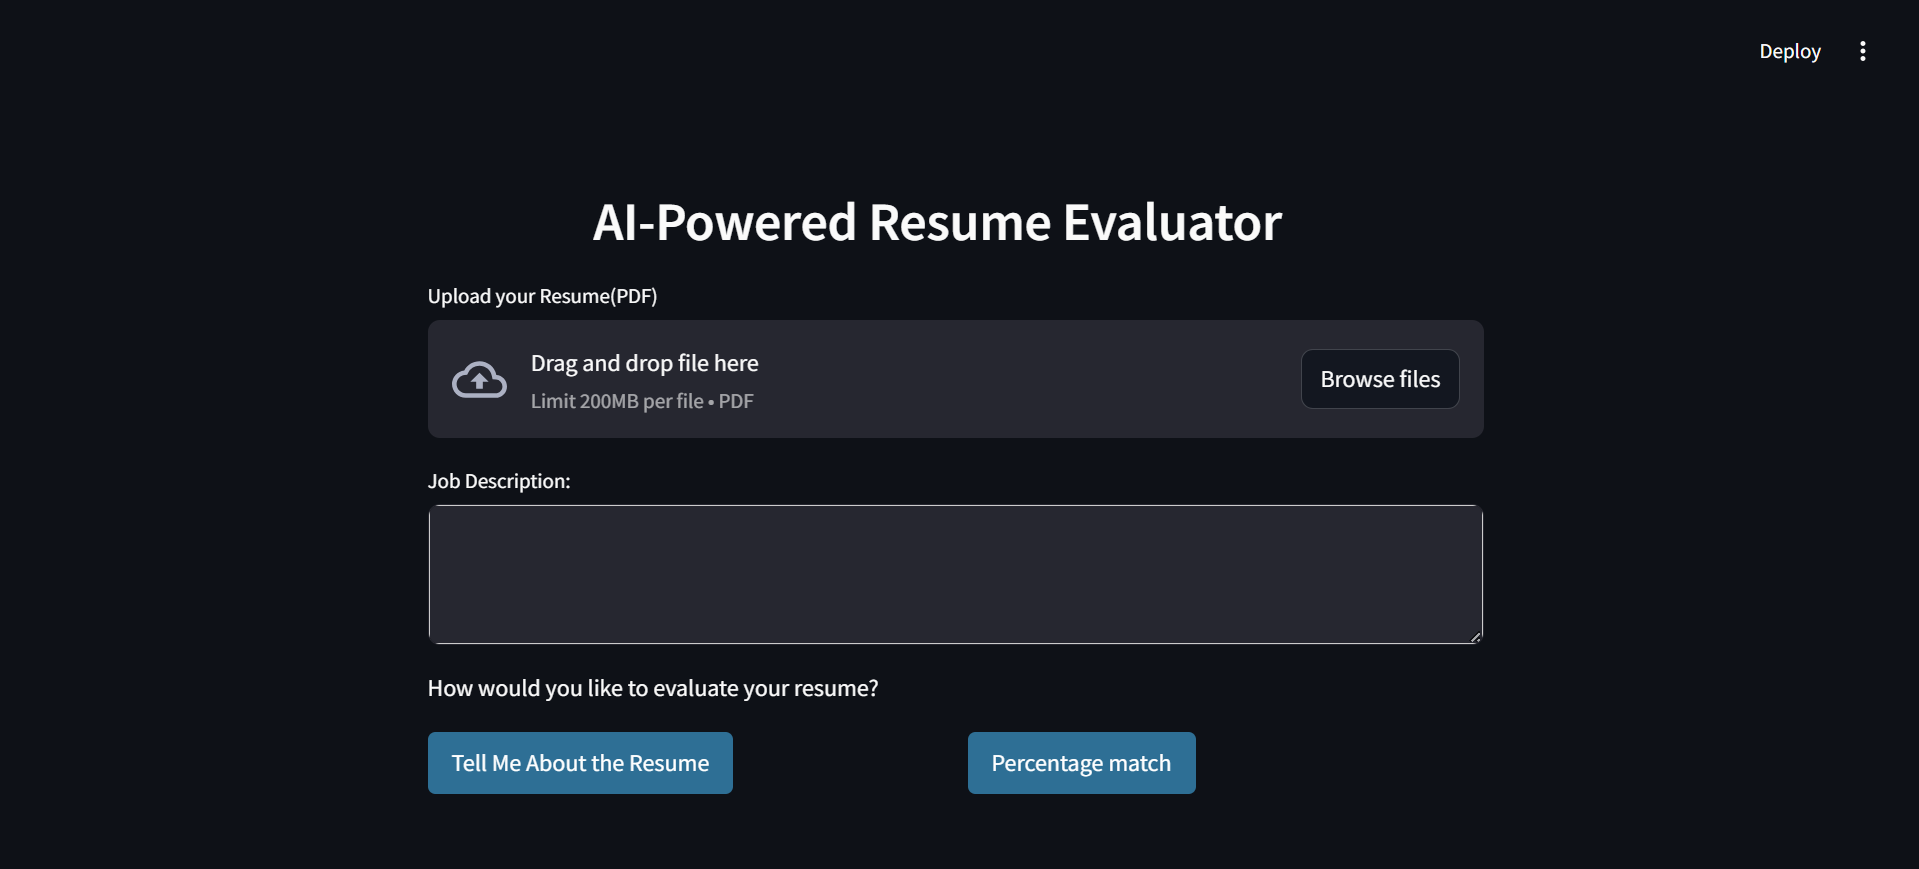
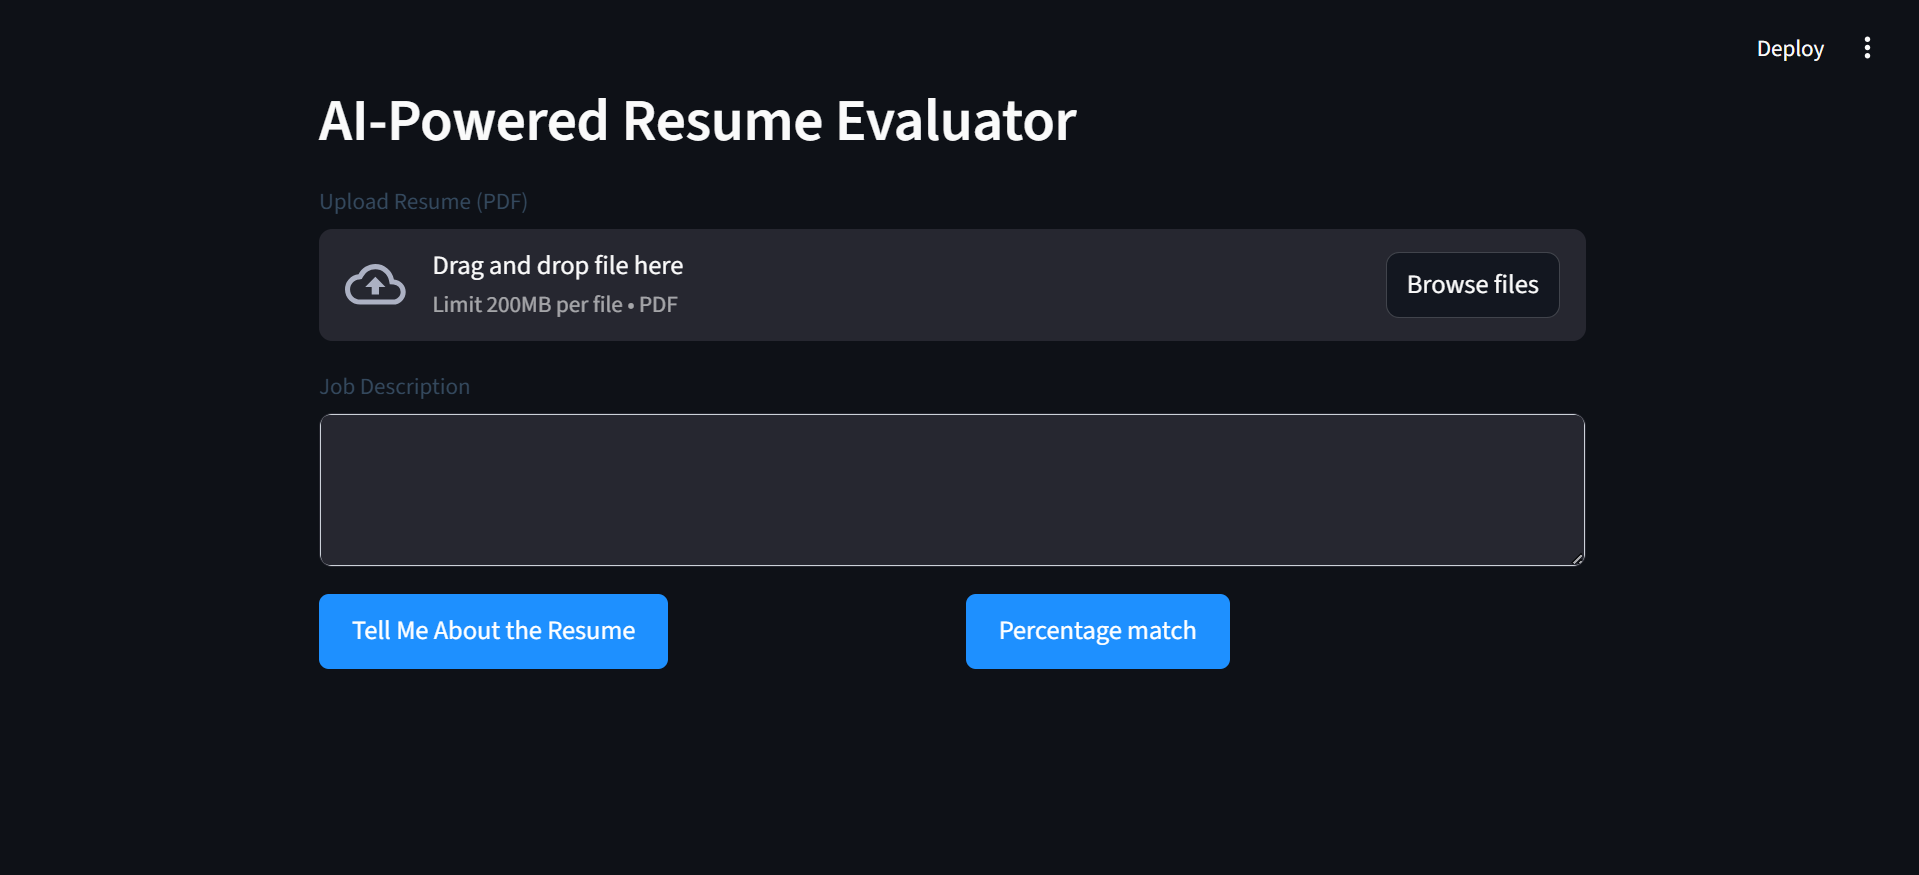
new commit
A

diff --git a/app.py b/app.py
@@ -1,12 +1,27 @@
+<<<<<<< HEAD
 from dotenv import load_dotenv
 load_dotenv()
+=======
+from dotenv import load_dotenv; load_dotenv()
+import os, json, time
+import streamlit as st
+import google.generativeai as genai
+
+MODEL_ID = "gemini-2.5-flash"
+>>>>>>> 85f87bd (new commit)
 genai.configure(api_key=os.getenv("GOOGLE_API_KEY"))
 
-def get_gemini_response(input,pdf_cotent,prompt):
-    model=genai.GenerativeModel('gemini-1.5-flash')
-    response=model.generate_content([input,pdf_content[0],prompt])
-    return response.text
+ATS_SCHEMA_EXAMPLE = {
+  "type": "object",
+  "properties": {
+    "match_percent": {"type": "number", "minimum": 0, "maximum": 100},
+    "summary": {"type": "string"}
+  },
+  "required": ["match_percent", "summary"],
+  "additionalProperties": False
+}
 
+<<<<<<< HEAD
 def input_pdf_setup(uploaded_file):
     if uploaded_file is not None:
         pdf_parts = [
@@ -18,54 +33,79 @@ def input_pdf_setup(uploaded_file):
         return pdf_parts
     else:
         raise FileNotFoundError("No file uploaded")
+=======
+HR_PROMPT = (
+  "Role: You are an experienced technical recruiter.\n"
+  "Task: Evaluate the resume against the job description.\n"
+  "Output: strengths, gaps, and a fit verdict in <=120 words.\n"
+  "Style: concise, specific, professional."
+)
 
-## Streamlit App
+ATS_PROMPT = (
+  "Role: You are an expert ATS and technical recruiter.\n"
+  "Task: Read the Job Description and the Resume. Produce four sections with the exact keys below.\n"
+  "Style: Be concise, specific, and evidence-aware. Do not repeat sentences across sections.\n"
+  "Output: STRICT JSON ONLY with keys and types:\n"
+  "{\n"
+  '  "match_percent": 0-100 number,\n'
+  '  "about_job": "string",\n'
+  '  "your_resume": "string",\n'
+  '  "summary": "string"\n'
+  "}\n"
+  "Definitions:\n"
+  "- match_percent: ATS-style score 0–100, strict.\n"
+  "- about_job: Explain what the job is, what they seek, and critical requirements from the JD.\n"
+  "- your_resume: Analyze work experience, internships, and projects in detail. \
+    Explain which experiences directly support this job’s requirements and which skills or experiences are missing. \
+    Focus heavily on practical experience and achievements.\n"
+  "- summary: Professional advice on changes to improve fit; do not copy from other sections.\n"
+)
 
+
+def upload_pdf_native(uploaded_file):
+    """Upload PDF to Gemini API (not stored locally)."""
+    return genai.upload_file(
+        uploaded_file,
+        mime_type="application/pdf",
+        display_name=uploaded_file.name
+    )
+>>>>>>> 85f87bd (new commit)
+
+def call_gemini(content_parts):
+    """One retry wrapper."""
+    model = genai.GenerativeModel(MODEL_ID)
+    for i in range(2):
+        try:
+            return model.generate_content(content_parts, request_options={"timeout": 60})
+        except Exception:
+            if i == 1:
+                raise
+            time.sleep(1.5)
+
+def parse_json(text: str):
+    """Try to parse JSON, stripping fences if present."""
+    try:
+        return True, json.loads(text)
+    except Exception:
+        cleaned = text.replace("```json", "").replace("```", "").strip()
+        try:
+            return True, json.loads(cleaned)
+        except Exception:
+            return False, text
+        
+# ---------- UI
 st.set_page_config(page_title="AI-Powered Resume Evaluator")
-
-# Overwrite Style
-st.markdown("""
-    <style>
-        .main {
-            background-color: #f5f7fa;
-        }
-        h1, h2, h3 {
-            color: #2e6f95;
-            text-align: center;
-        }
-        .stTextArea textarea {
-            border: 1px solid #ccc;
-        }
-        .stButton > button {
-        background-color: #2e6f95;
-        color: white;
-        border: none;
-        border-radius: 5px;
-        padding: 0.5em 1em;
-        transition: background-color 0.3s ease;
-        }
-        .stButton > button:hover {
-            background-color: #082534;
-            color: white;
-            border: none;
-        }
-        .stButton > button:active {
-            background-color: #1c4d66;
-            color: white !important;
-            border: none;
-        }
-    </style>
-""", unsafe_allow_html=True)
-
 st.header("AI-Powered Resume Evaluator")
-uploaded_file=st.file_uploader("Upload your Resume(PDF)",type=["pdf"])
-input_text=st.text_area("Job Description: ",key="input")
 
-if uploaded_file is not None:
-    st.write("PDF Uploaded Successfully")
+uploaded = st.file_uploader("Upload Resume (PDF)", type=["pdf"])
+jd_text = st.text_area("Job Description")
+c1, c2 = st.columns(2)
+hr_btn = c1.button("Tell Me About the Resume")
+ats_btn = c2.button("Percentage match")
 
-st.markdown("<p style='font-size: 16px;'>How would you like to evaluate your resume?</p>", unsafe_allow_html=True)
+if uploaded: st.caption("PDF uploaded successfully.")
 
+<<<<<<< HEAD
 col1, col2 = st.columns(2)
 with col1:
     submit1 = st.button("Tell Me About the Resume")
@@ -79,15 +119,72 @@ if submit1:
         response=get_gemini_response(input_prompt1,pdf_content,input_text)
         st.subheader("The Repsonse is")
         st.write(response)
+=======
+if hr_btn or ats_btn:
+    if not uploaded or not jd_text.strip():
+        st.error("Upload a PDF and paste a job description.")
+>>>>>>> 85f87bd (new commit)
     else:
-        st.write("Please uplaod the Resume")
+        # Upload PDF to Gemini
+        file_handle = upload_pdf_native(uploaded)
 
-elif submit2:
-    if uploaded_file is not None:
-        pdf_content=input_pdf_setup(uploaded_file)
-        response=get_gemini_response(input_prompt2,pdf_content,input_text)
-        st.subheader("The Repsonse is")
-        st.write(response)
-    else:
-        st.write("Please uplaod the Resume")
+        # ---------- HR MODE ----------
+        if hr_btn:
+            try:
+                with st.spinner("Analyzing your resume..."):
+                    parts = [HR_PROMPT, "Job Description:\n" + jd_text, file_handle]
+                    resp = call_gemini(parts)
+                st.success("Analysis complete.")
+                st.subheader("Response")
+                st.write(resp.text)
+            finally:
+                try:
+                    genai.delete_file(file_handle.name)
+                except Exception:
+                    pass
 
+        # ---------- ATS MODE ----------
+        if ats_btn:
+            try:
+                with st.spinner("Reading resume and job description... Please wait."):
+                    parts = [
+                        ATS_PROMPT + "\nReturn ONLY JSON.",
+                        "Job Description:\n" + jd_text,
+                        file_handle
+                    ]
+                    resp = call_gemini(parts)
+
+                st.success("Evaluation complete.")
+                ok, out = parse_json(resp.text)
+                st.subheader("Response")
+
+                if ok and isinstance(out, dict):
+                    st.markdown("### Percentage match")
+                    mp = out.get("match_percent", None)
+                    st.write(f"{mp}%" if mp is not None else "")
+                    
+                    st.markdown("### About the job")
+                    st.write(out.get("about_job", ""))
+
+                    st.markdown("### Your resume")
+                    st.write(out.get("your_resume", ""))
+
+                    st.markdown("### Summary")
+                    st.write(out.get("summary", ""))
+                else:
+                    cleaned = resp.text.replace("```json", "").replace("```", "").strip()
+                    ok2, out2 = parse_json(cleaned)
+                    if ok2 and isinstance(out2, dict):
+                        st.markdown("### Percentage match");st.write(f'{out2.get("match_percent","")}%')
+                        st.markdown("### About the job");   st.write(out2.get("about_job",""))
+                        st.markdown("### About your resume");     st.write(out2.get("your_resume",""))
+                        st.markdown("### Summary");         st.write(out2.get("summary",""))
+                    else:
+                        st.error("Model did not return valid JSON.")
+                        st.code(resp.text)
+            finally:
+                try:
+                    genai.delete_file(file_handle.name)
+                except Exception:
+                    pass
+                

diff --git a/README.md b/README.md
@@ -1,41 +1,81 @@
 # AI-Powered Resume Evaluator
 
-This project is an AI-powered Resume Evaluator that analyzes how well a resume aligns with a given job description. Leveraging natural language processing (NLP), semantic embeddings, and dynamic keyword extraction, it simulates the behavior of modern ATS platforms to deliver a comprehensive match score. The system helps both job seekers and recruiters assess fit with precision, beyond simple keyword matching.
+The AI-Powered Resume Evaluator automatically reviews a candidate’s resume (PDF) against a given job description using Google Gemini 2.5 Flash.
+It simulates both a human recruiter and an Applicant Tracking System (ATS) to evaluate how well a resume matches the job role.
+The app provides a detailed report including job expectations, resume alignment, match percentage, and professional feedback — all in real time through a clean Streamlit web interface.
 
 
 ## 🚀 Features
 
-📄 **Resume Upload & Parsing** using Streamlit file uploader <br>
-🖼 **PDF-to-Image Conversion** for Gemini's multimodal input <br>
-🤖 **Gemini 1.5 Flash Integration** for AI-powered resume evaluation <br>
-📝 **Custom Prompting** to drive HR-style or ATS-style assessments <br>
-📊 **ATS-Style** Match Scoring with percentage and summary output <br>
-⚡ Real-Time Feedback delivered through a responsive **Streamlit** UI <br>
+📄 Upload PDF resume and paste job description
+🧠 Uses Gemini Flash 2.5 for multimodal reasoning (reads PDFs directly)
+🧾 Returns 4-section detailed report
+    - About the Job
+    - Your Resume
+    - Match Percentage
+    - Summary & Feedback
+🔍 Emphasizes experience, skills, and projects
+🔒 Automatically deletes uploaded files after analysis
+🎨 Includes custom CSS styling and inline colored “loading” indicator
+⚡ Lightweight, single-file deployable Streamlit app
 
 
 ## 📦 Tech Stack
 
-- **Python** — Core backend language
-- **Streamlit** — Web application framework for UI
-- **Google Gemini 1.5 Flash** — AI model for resume evaluation
-- **Google Generative AI API** — LLM integration
+| Layer                | Technology              | Purpose                             |
+| -------------------- | ----------------------- | ----------------------------------- |
+| **Frontend / UI**    | Streamlit               | Interactive web interface           |
+| **Backend / Logic**  | Python 3.9+             | Workflow and LLM orchestration      |
+| **LLM Engine**       | Google Gemini 2.5 Flash | Core multimodal model (text + PDF)  |
+| **Environment Mgmt** | python-dotenv           | Secure API-key handling             |
+| **Styling**          | Custom CSS              | UI consistency and branding         |
+| **Optional Libs**    | pillow, pdf2image       | Image/PDF preprocessing (if needed) |
+
 
 
 ## 📁 Project Structure
 
 ```
-/project-root/
-│
-├── .env
-├── app.py
-├── requirements.txt
-└── README.md
+User
+ ├── Upload Resume (PDF)
+ ├── Paste Job Description
+ ▼
+[ Streamlit UI ]
+ ├── Build Prompt + PDF Handle
+ ▼
+[ Gemini Flash Model ]
+ ├── Compare Resume ↔ JD
+ ├── Generate JSON Output
+ ▼
+[ Streamlit Renderer ]
+ ├── Parse JSON → Show 4 Sections
+ ├── Delete Uploaded File
+ ▼
+Result: ATS-style evaluation on screen
+
 ```
 
 ## 📸 Screenshots
 
-![Index](static/Index.png)
+![Index](static/index.png)
 
+## ⚙ Environment Setup
+
+### Create Virtual Environment
+```
+python -m venv venv
+source venv/bin/activate      # (Windows: venv\Scripts\activate)
+```
+
+### Install Dependencies
+```
+pip install streamlit google-generativeai python-dotenv pillow pdf2image
+```
+
+### Run the App
+```
+streamlit run app.py
+```
 
 ## Author
 
